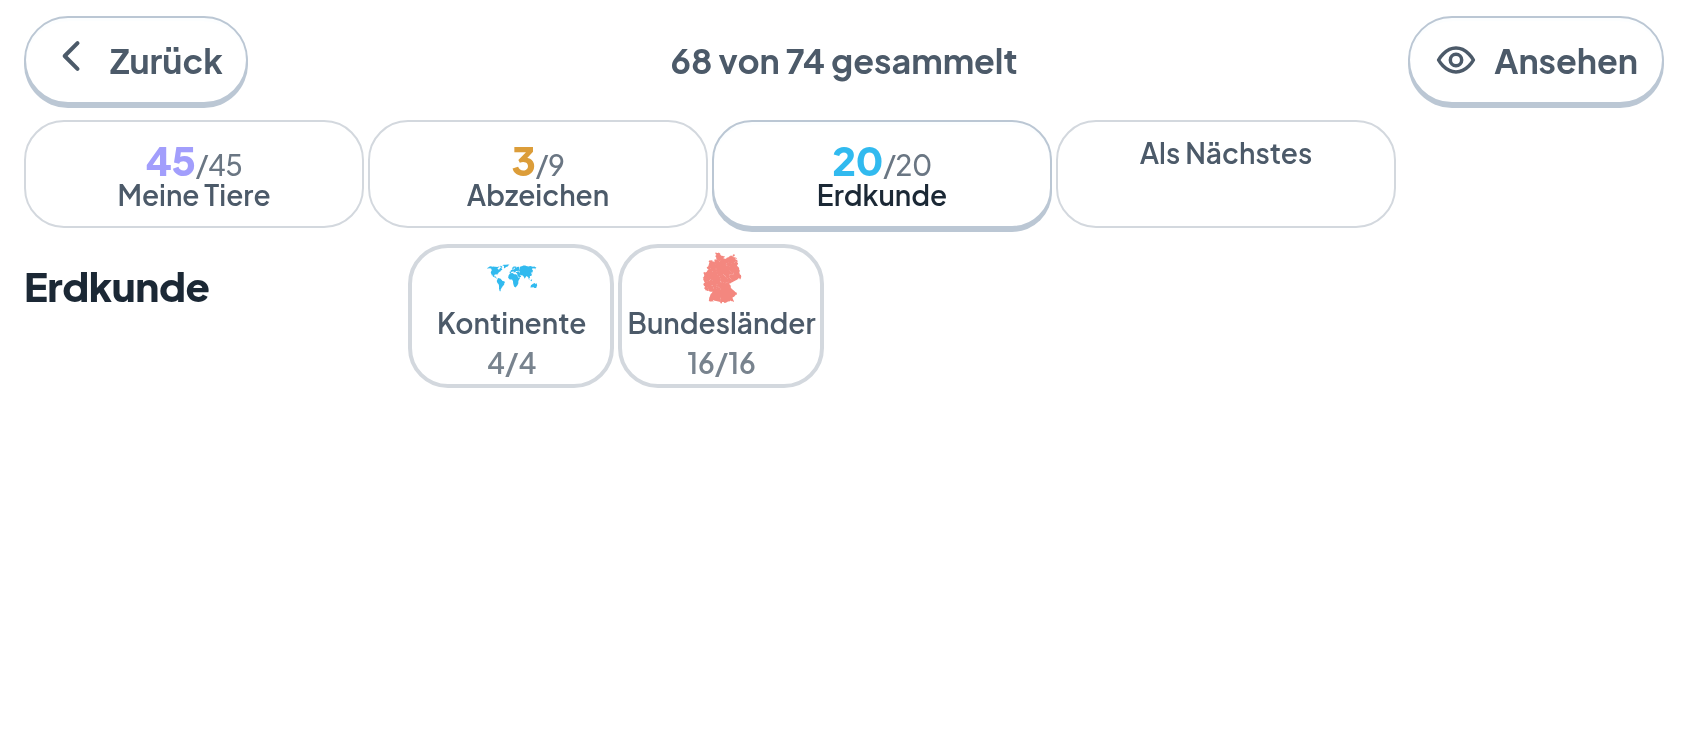
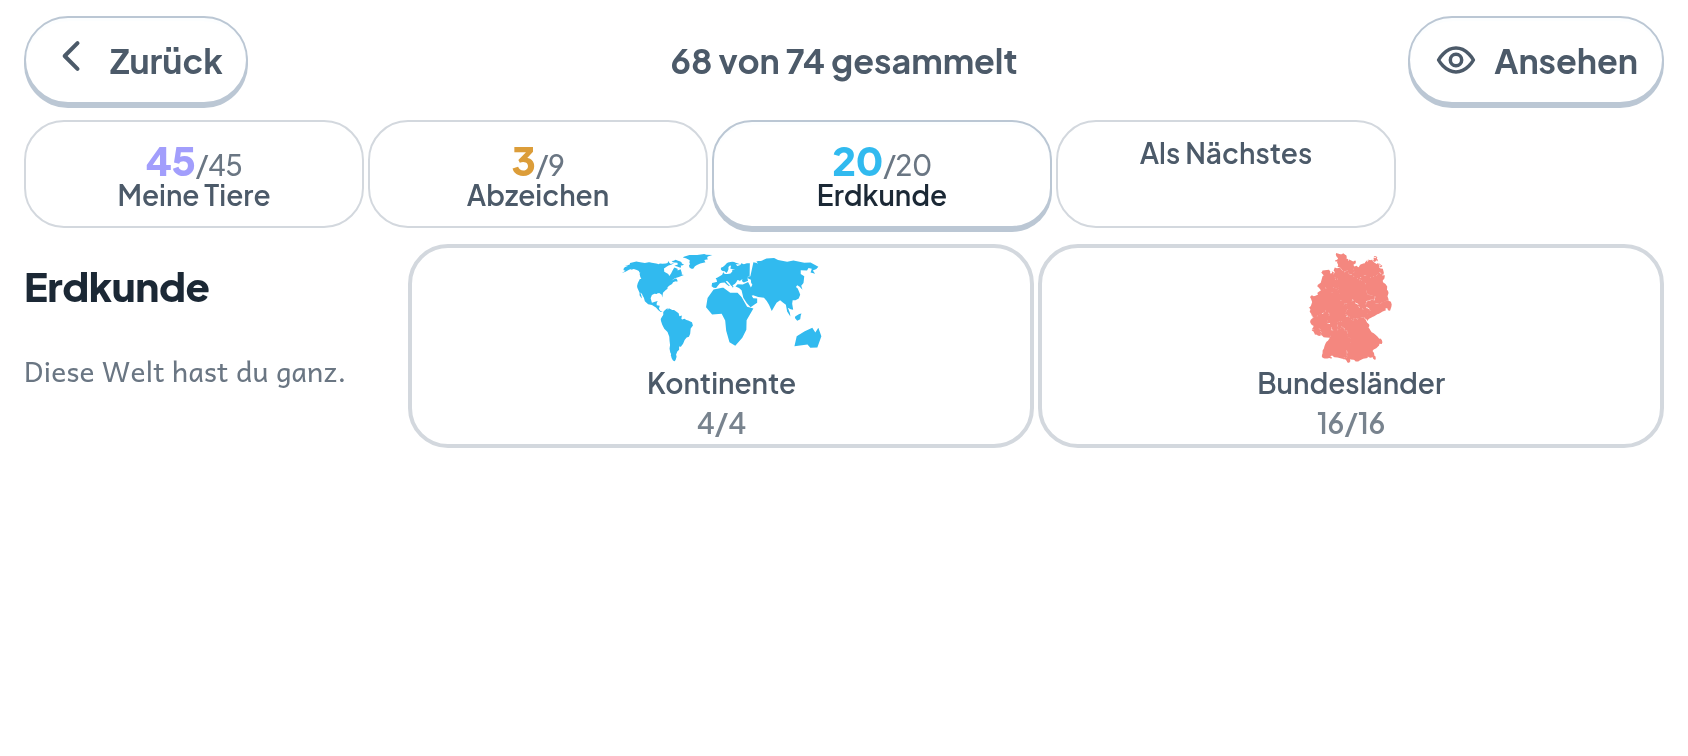
B13 und B14: der Abzeichenname bricht nicht mehr, die Weltübersicht füllt
B13 — DER ABZEICHENNAME BRICHT MITTEN IM WORT. Gesehen auf dem
Hochkant-Bild aus B12b („Stadtstaate/n"), gemessen ist die Ursache eine
Zahl: die Spalte stand auf `minmax(112px,1fr)`, hochkant ergibt das eine
Zelle von 114 Punkten mit 90 innen — und „Bundesländer" braucht 94,3,
„Siebenerreihe" 94,1, „Stadtstaaten" 90,3. Auf dem Zielgerät fiel es nie
auf: dort ist das Polster der Zelle kleiner (`--mittel` ist auf kurzen
Schirmen `--r2` statt `--r4`), die Zelle innen also breiter. Wieder die
falsche Messstelle.

Die Spalte steht jetzt auf 119 = 95 für den Namen plus 24 Polster.
Geprüft werden ALLE 16 möglichen Namen aus `TAFEL`, nicht die gerade
sichtbaren — dieselbe Überlegung wie bei den 124 Tiernamen.

B14 — DIE WELTÜBERSICHT WAR ZU DREI VIERTELN LEER (28 % Erdkunde, 34 %
Schreiben). Zwei Ursachen, keine davon „zu wenig Platz":

* `auto-fill` legte so viele Spalten an, wie hineinpassen, und liess die
  leeren stehen — zwei Ebenen standen als Briefmarken links oben, der
  Umriss von „Kontinente" war mit 34 Punkten ein blauer Fleck. Mit
  `auto-fit` nehmen die Zellen die Breite, der Umriss wächst auf 56
  Punkte (72 auf hohen Schirmen). Derselbe Befund wie bei der Albumkarte
  (Audit I, B4).
* Die Seite sagte nichts, was nicht schon auf dem Reiter stand. Die eine
  Auskunft, die es hier und nur hier gibt, ist die Richtung: „Als
  Nächstes" wählt EINE Ebene für das ganze Buch. Jetzt steht dort „Als
  Nächstes hier: Kontinente. Noch 2.", nach derselben Regel gewählt, und
[…]

diff --git a/prototyp/vorlage.html b/prototyp/vorlage.html
@@ -1004,7 +1004,20 @@ body{background:linear-gradient(168deg,var(--grund) 0%,var(--grund-2) 100%);
    Dieselbe Kante, dieselbe Groesse und dieselbe Anordnung wie ein
    Aufkleber - eine Sammlung sieht aus wie eine Sammlung, wenn die
    Fassung immer dieselbe ist (Audit II, S2). */
-.abzeichen{display:grid;grid-template-columns:repeat(auto-fill,minmax(112px,1fr));
+/* 119 PUNKTE, UND DIE ZAHL IST GEMESSEN (B13).
+   Bei 112 stand die Zelle auf dem hochkant gehaltenen Telefon 114 breit,
+   davon 90 innen - und drei der moeglichen Namen brauchen mehr:
+   „Bundeslaender" 94,3, „Siebenerreihe" 94,1, „Stadtstaaten" 90,3. Sie
+   brachen dann mitten im Wort („Stadtstaate/n"), weil `.abz .was` auf
+   `overflow-wrap:anywhere` steht.
+   Gemessen wurde der BREITESTE moegliche Name, nicht der breiteste
+   sichtbare: welche Abzeichen ein Kind gerade hat, entscheidet sein
+   Fortschritt, und ein Tor, das nur die heutigen prueft, faellt beim
+   naechsten um (dieselbe Ueberlegung wie bei den 124 Tiernamen).
+   95 Punkte fuer den Namen plus 24 Punkte Polster - das Polster ist auf
+   dem HOHEN Schirm groesser (`--mittel` ist dort `--r4`), also bindet
+   er. `npm run tonleiter` haelt die Zahl. */
+.abzeichen{display:grid;grid-template-columns:repeat(auto-fill,minmax(119px,1fr));
   gap:var(--r3);width:100%;align-content:start}
 .abz{position:relative;display:flex;flex-direction:column;align-items:center;
   justify-content:flex-start;gap:var(--r2);text-align:center;
@@ -3261,8 +3274,19 @@ code{font-family:ui-monospace,monospace;font-size:.9em;background:var(--linie);
    Zahl. Der Umriss kommt aus `silhouette`, also aus demselben Zeichner
    wie die Kachel auf der Ebenenwahl; er braucht hier nur seine
    Groesse. */
-.rollen.buch .ebenenzelle .silhouette{width:34px;height:34px;flex:0 0 auto;
-  color:var(--ton)}
+/* DIE ZELLE IST EIN BILD MIT EINER UNTERSCHRIFT, kein Kaestchen mit
+   einem Zeichen darin (B14).
+   Gemessen: eine Weltseite mit zwei Ebenen nutzte 28 % ihrer Hoehe, und
+   der Umriss stand mit 34 Punkten in einer Zelle, die 250 breit sein
+   koennte - „Kontinente" war ein blauer Fleck. Das ist derselbe Befund
+   wie bei der Albumkarte (Audit I, B4): eine Albumseite mit einer
+   Briefmarke darauf ist keine Albumseite.
+   Also waechst der Umriss mit dem Platz, nach oben begrenzt. Die Hoehe
+   kommt aus dem KASTEN und nicht aus dem Fenster - `vh` weiss nichts
+   von der Kopfzeile und dem Reiterstreifen darueber (dieselbe Falle wie
+   bei `42vh` an der Albumkarte). */
+.rollen.buch .ebenenzelle .silhouette{width:auto;height:72px;flex:0 0 auto;
+  max-width:100%;color:var(--ton)}
 /* Die Fuellung steht `.kachel`-seitig und gilt hier nicht - ohne diese
    Zeile ist jeder Umriss SCHWARZ (die Voreinstellung von SVG), und zehn
    schwarze Flecken sind im Buch ein Fremdkoerper. Gesehen auf der ersten
@@ -3270,9 +3294,27 @@ code{font-family:ui-monospace,monospace;font-size:.9em;background:var(--linie);
 .rollen.buch .ebenenzelle .silhouette path{fill:currentColor}
 .rollen.buch .ebenenzelle .silhouette.gezeichnet path{fill:none}
 .rollen.buch .ebenenzelle small{opacity:.75}
+/* AUTO-FIT statt AUTO-FILL, und nur im Buch: `auto-fill` legt so viele
+   Spalten an, wie hineinpassen, und laesst die leeren stehen - zwei
+   Ebenen standen damit als zwei Briefmarken links oben in einer Spalte,
+   die fuenf Zellen breit ist. `auto-fit` faltet die leeren zusammen,
+   und die zwei nehmen die Breite, die da ist.
+   Fuer das Tierkapitel aendert das nichts: fuenfzehn Raeume fuellen die
+   Spalten ohnehin. */
+.rollen.buch .raumgitter{grid-template-columns:repeat(auto-fit,minmax(88px,1fr))}
+/* Auf dem kurzen Querformat ist der Umriss kleiner - dort sind 244
+   Punkte Raster da, nicht 600. Zwei Werte und keine Rechnung: welcher
+   gilt, entscheidet dieselbe Grenze, die auch die Tonleiter umschaltet. */
 @media (max-height:440px){
-  .rollen.buch .ebenenzelle .silhouette{width:26px;height:26px}
+  .rollen.buch .ebenenzelle .silhouette{height:56px}
 }
+/* Die Zelle, bei der es weitergeht - dieselbe Sprache wie beim offenen
+   Kapitelreiter: sie steht auf ihrer Kante und traegt volle Tinte. Kein
+   zweites Zeichen daneben; der Satz links sagt es fuer Lea, die Kante
+   fuer Fiona. */
+.rollen.buch .ebenenzelle.dran{color:var(--tinte);border-color:var(--knopf-kante);
+  box-shadow:0 var(--kante-flach) 0 var(--knopf-kante),
+             inset 0 var(--strich) 0 var(--knopf-licht)}
 .rollen.buch .tierraum .tierwand{display:grid;
   grid-template-columns:repeat(auto-fill,minmax(140px,1fr));gap:var(--mittel)}
 /* Die Karte hat KEINE feste Breite mehr - bis Runde 3 stand sie

diff --git a/prototyp/spiel.js b/prototyp/spiel.js
@@ -7263,16 +7263,43 @@ async function forscherbuch(){
         inhalt: gruppenSeite(gs[0], { seiteId: id }) });
       continue;
     }
+    /* WO ES IN DIESER WELT WEITERGEHT (B14).
+     *
+     * Die Uebersicht nutzte gemessen 28 % ihrer Hoehe, und der Grund
+     * war nicht nur der Platz: sie sagte ausser dem Weltnamen NICHTS,
+     * was nicht schon auf dem Reiter stand. Die eine Auskunft, die es
+     * hier und nur hier gibt, ist die Richtung - das Kapitel „Als
+     * Naechstes" waehlt EINE Ebene fuer das ganze Buch, und innerhalb
+     * einer Welt ist danach nicht mehr zu sehen, wo man stehengeblieben
+     * ist.
+     *
+     * Gewaehlt wird nach derselben Regel wie dort: die Ebene mit den
+     * meisten Aufklebern, die noch nicht fertig ist. Zwei Regeln fuer
+     * dieselbe Frage waeren zwei, die eines Tages auseinanderlaufen. */
+    const weiter = gs.filter(g => g.offen.length)
+      .sort((a, b) => b.da.length - a.da.length)[0];
+    const sicher = gs.reduce((a, g) => a + g.da.filter(x => x.gekonnt).length, 0);
     kapitel.push({ id, titel: w.name, farbe: w.farbe, zahl, gesamt,
       lesen: `${w.name}. ${zahl} von ${gesamt} Aufklebern.`,
       inhalt: buchSeite({ id, titel: w.name,
+        /* Dasselbe Wort wie auf den Ebenenseiten: „sicher" ist die
+           zweite Stufe und steht nirgends sonst. Der Reiter traegt die
+           erste (`20/20`). */
+        zusatz: sicher ? `${sicher} davon sicher` : '',
+        fuss: weiter
+          ? `<p class="buchsatz" data-lesen="Als Nächstes hier: ${weiter.titel}. Noch ${
+               weiter.offen.length}.">Als Nächstes hier: ${weiter.titel}. Noch ${
+               weiter.offen.length}.</p>`
+          : `<p class="buchsatz" data-lesen="Diese Welt hast du ganz."
+             >Diese Welt hast du ganz.</p>`,
         /* Die Zelle traegt DEN UMRISS DER EBENE, nicht ein Zeichen
            daneben: `silhouette` zeichnet genau das, was die Kachel auf
            der Ebenenwahl zeigt - ein Kind, das nicht liest, erkennt
            Afrika wieder. Und die Zahl, die der Reiter nicht mehr traegt:
            er zaehlt jetzt die ganze Welt. */
         zeigt: `<div class="raumgitter">${gs.map(g => `
-          <button class="raumzelle ebenenzelle${g.da.length ? '' : ' leer'}"
+          <button class="raumzelle ebenenzelle${g.da.length ? '' : ' leer'}${
+                    weiter && g.id === weiter.id ? ' dran' : ''}"
                   data-ebenenwahl="${g.id}"
                   style="--ton:var(${FL[(g.farbe - 1 + 7) % 7]})"
                   data-lesen="${g.titel}. ${g.da.length} von ${

diff --git a/docs/Lernkiste-STAND.md b/docs/Lernkiste-STAND.md
@@ -10706,3 +10706,86 @@ die Zahl der Reiter gedrittelt hat. Der Stand trägt jetzt eine vierte Welt
 (Englisch, sechs Aufkleber), und damit sechs Reiter — die Zahl, bei der die
 Zusage überhaupt etwas behauptet. Nebenbei prüft der Rauchtest damit zum
 ersten Mal alle vier Welten statt dreien.
+
+---
+
+## B13 · Der Abzeichenname bricht nicht mehr mitten im Wort
+
+Gesehen auf dem Hochkant-Bild aus B12b: „Stadtstaate/n". Gemessen ist die
+Ursache eine Zahl. Die Spalte stand auf `minmax(112px, 1fr)`; auf dem hochkant
+gehaltenen Telefon ergibt das eine Zelle von 114 Punkten, davon **90 innen** —
+und drei der möglichen Namen brauchen mehr:
+
+| Name | braucht |
+|---|---|
+| Bundesländer | 94,3 |
+| Siebenerreihe | 94,1 |
+| Stadtstaaten | 90,3 |
+
+Weil `.abz .was` auf `overflow-wrap:anywhere` steht, brechen sie dann **mitten
+im Wort**. Auf dem Zielgerät fiel es nie auf: dort ist das Polster der Zelle
+kleiner (`--mittel` ist auf kurzen Schirmen `--r2` statt `--r4`), also die
+Zelle innen breiter — 103 statt 90. Wieder einmal die falsche Messstelle: die
+Zahl gilt nur dort, wo sie gemessen wurde (Regel 5).
+
+Die Spalte steht jetzt auf **119** = 95 Punkte für den Namen plus 24 Punkte
+Polster. Auf dem Zielgerät ändert sich nichts (weiter vier Spalten), hochkant
+werden aus drei Spalten zwei.
+
+Geprüft werden **alle 16 möglichen** Namen aus `TAFEL`, nicht die gerade
+sichtbaren — welche Abzeichen ein Kind hat, entscheidet sein Fortschritt, und
+ein Tor, das nur die heutigen sieht, fällt beim nächsten um. Dieselbe
+Überlegung wie bei den 124 Tiernamen in `tonleiter`; gemessen wird auf
+390 × 844, weil dort die Zelle enger ist.
+
+---
+
+## B14 · Die Weltübersicht füllt und weist den Weg
+
+Gemessen: eine Weltseite mit zwei Ebenen nutzte **28 %** ihrer Höhe
+(Schreiben 34 %). Zwei Ursachen, und keine davon war „zu wenig Platz".
+
+**Erstens standen die Zellen als Briefmarken links oben.** `auto-fill` legt so
+viele Spalten an, wie hineinpassen, und lässt die leeren stehen — zwei Ebenen
+belegten zwei von fünf. Der Umriss von „Kontinente" war mit 34 Punkten ein
+blauer Fleck. Das ist derselbe Befund wie bei der Albumkarte (Audit I, B4):
+*eine Albumseite mit einer Briefmarke darauf ist keine Albumseite.* Mit
+`auto-fit` falten sich die leeren Spalten zusammen, die zwei Zellen nehmen die
+Breite, und der Umriss wächst auf 56 Punkte (72 auf hohen Schirmen) — groß
+genug, dass ein Kind Deutschland wiedererkennt.
+
+**Zweitens sagte die Seite nichts, was nicht schon auf dem Reiter stand.** Die
+eine Auskunft, die es hier und nur hier gibt, ist die *Richtung*: das Kapitel
+„Als Nächstes" wählt EINE Ebene für das ganze Buch, und innerhalb einer Welt
+ist danach nicht mehr zu sehen, wo man stehengeblieben ist. Jetzt steht dort
+„Als Nächstes hier: Kontinente. Noch 2." — nach derselben Regel gewählt wie im
+globalen Kapitel, und die Zelle dieser Ebene steht auf ihrer Kante, damit auch
+Fiona es sieht. Dazu „N davon sicher", dasselbe Wort wie auf den Ebenenseiten.
+
+Danach: Erdkunde **28 → 46 %**, Schreiben **34 → 53 %**.
+
+Beides hätte ohne eigene Zusage still zurückfallen können — die
+Halbleer-Ratsche steht bei 24 %, und 28 % hätten sie erfüllt. Der Rauchtest
+misst deshalb jetzt den Platz rechts neben der letzten Zelle (mehr als eine
+Fuge ist keiner) und verlangt den Wegweiser.
+
+**Und die Prüfung, die es selbst gemeldet hat:** der Satz zum Mitnehmen wurde
+mit `querySelector('.schirm.da .buchsatz')` gesucht — seit die Weltseiten
+mehrere Abschnitte halten und die Übersicht selbst einen Fußsatz trägt, traf
+das den **verborgenen** der Übersicht statt den der Ebene. Gemeldet beim
+ersten Lauf nach der Änderung, in derselben Minute.
+
+### Zwei Gegenproben, die sich selbst gemeldet haben
+
+*Der Wegweiser fällt aus.* Der erste Eingriff setzte die Bedingung auf
+`false` — dann lief der **andere** Zweig („Diese Welt hast du ganz."), und ein
+Fußsatz stand weiter da. Das Tor blieb zu Recht grün. Dieselbe Lehre wie bei
+der Weltseite in B12: ein Eingriff muss die Sache **wegnehmen**, nicht ihren
+Zweig umlegen.
+
+*Und einer, der schon beim ersten Anlauf richtig war:* der Rückfall auf
+`auto-fill`. Er ist die Sorte, für die es `npm run proben` gibt — die Seite
+funktioniert danach vollständig, sie ist nur wieder zu drei Vierteln leer, und
+die Halbleer-Ratsche (24 %) hätte 28 % durchgelassen.
+
+362 von 362 Gegenproben mit Nachweis.

diff --git a/docs/Lernkiste-BUCH-AUDIT-2.md b/docs/Lernkiste-BUCH-AUDIT-2.md
@@ -236,6 +236,8 @@ wirklich Gestaltung sind und nicht Ordnung:
 | **B4b** Zwei Seiten sind wirklich halb leer | **erledigt** (v426). Gemessen war: `25 · 95 · 95 · 29 · 46 · 46 · 42` — die Abzeichenseite bei 25 %, „Plus und Minus" bei 29 %. Gefüllt wurde mit **Auskunft, nicht mit Luft** (die Lehre aus G15c: eine Kennzahl, die sich durch einen höheren leeren Kasten erfüllen lässt, misst den Kasten). **Abzeichen:** alle Abzeichen statt drei — die Forderung stand seit dem ersten Tag im SOLL von `src/inhalt/abzeichen.js` („sichtbar, BEVOR man es hat"), und `slice(0, 3)` machte den Reiter („3/9") zu einem Versprechen, das die Seite nicht deckte. Dazu der Fußsatz „Noch 5, dann heißt es: Du kannst alle Verdopplungen." — der Khan-Satz, der bisher nur in der Ansage stand. **Plus und Minus:** eine **Rechentafel** statt der Aufkleberwand — ein Kästchen je Aufgabe, `a` nach unten, `b` nach rechts, drei Stärken (sicher · gesammelt · offen). Keine hundert blassen Aufkleber: die Tafel ist ein Bild wie die Landkarte, kein Verzeichnis. Jetzt `53 · 95 · 95 · 95 · 45 · 45 · 42`. |
 | **B12** Der Kapitelstreifen wächst mit jeder Ebene | **erledigt** (v429). Gemessen an einem Profil mit Fortschritt auf allen Ebenen: **17 Reiter, 12 sichtbar, 109 von 390 Punkten** — auf dem Zielgerät, nicht in einem Randfall. Jetzt ein Reiter je **Welt** (aus `weltVon`, derselben Regel wie die Weltenwahl): 6 Reiter, alle sichtbar, 62 Punkte. Darin der Bau des Tierkapitels — Raster aus Ebenenzellen, ein Tipp öffnet die Ebene, ein Pfeil zurück; keine zweite Reiterzeile. Geprüft wird die FORM der Kennung („jeder Reiter ist eine Welt oder eines der drei festen Kapitel"), nicht eine Obergrenze — eine Zahl wäre mit dem nächsten Profil wieder falsch. |
 | **B12b** Auf 390 Punkten steht ein Reiter von sechs außerhalb | **offen**. 6 × 66 Punkte (der Boden aus `min-width`) sind 396 auf einem 390 Punkte breiten Schirm — es fehlt buchstäblich ein Reiter breit. Zu holen über einen niedrigeren Boden im Hochformat; ob 60 Punkte noch mit dem Daumen zu treffen sind, ist eine Messung. |
+| **B13** Der Abzeichenname bricht mitten im Wort | **erledigt** (v431). Hochkant war die Zelle 114 breit, davon **90 innen** — „Bundesländer" braucht 94,3, „Siebenerreihe" 94,1, „Stadtstaaten" 90,3. Die Spalte steht jetzt auf 119 = 95 für den Namen plus 24 Polster. Geprüft werden alle 16 möglichen Namen aus `TAFEL`, nicht die sichtbaren. |
+| **B14** Die Weltübersicht ist mit wenigen Ebenen dünn | **erledigt** (v431). Gemessen 28 % (Erdkunde) und 34 % (Schreiben). Zwei Ursachen: `auto-fill` ließ leere Spalten stehen (zwei Ebenen als Briefmarken links oben, Umriss 34 px) und die Seite sagte nichts, was nicht schon auf dem Reiter stand. Jetzt `auto-fit` (Umriss 56/72 px) und ein Wegweiser „Als Nächstes hier: … Noch N." samt hervorgehobener Zelle. Danach **46 %** und **53 %**. |
 | **C4** Drei Farben umgehen die Marken | **offen**, und mit Ansage: die Aufklebertöne gehören zum Tier |
 | **C5** Sieben Klassen kommen einmal vor | **offen** |
 | **K1** Abzeichenseite zu 92 % Text | **erledigt**: 312 → 169 Zeichen, 8 % → 14 % Bild |
